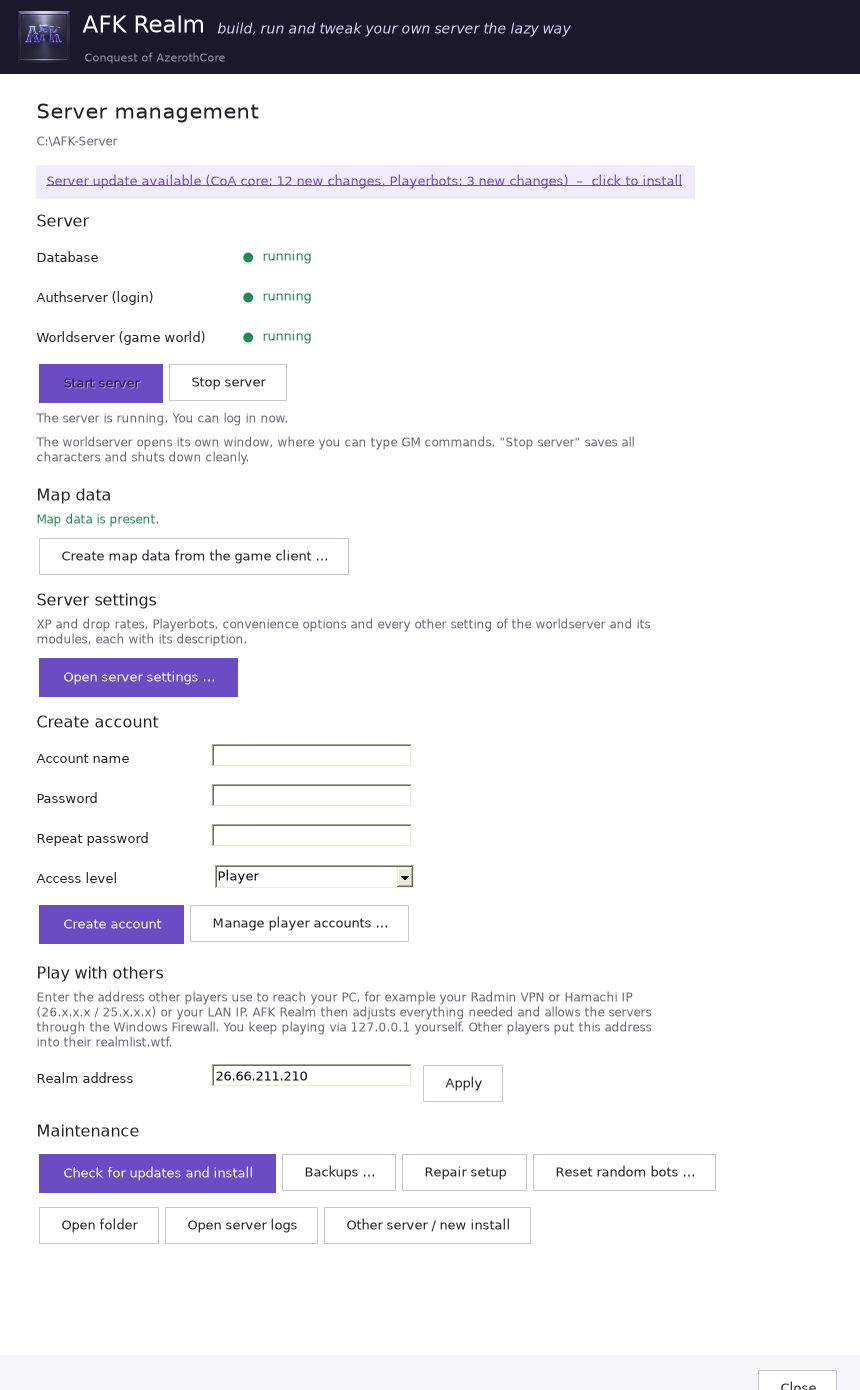
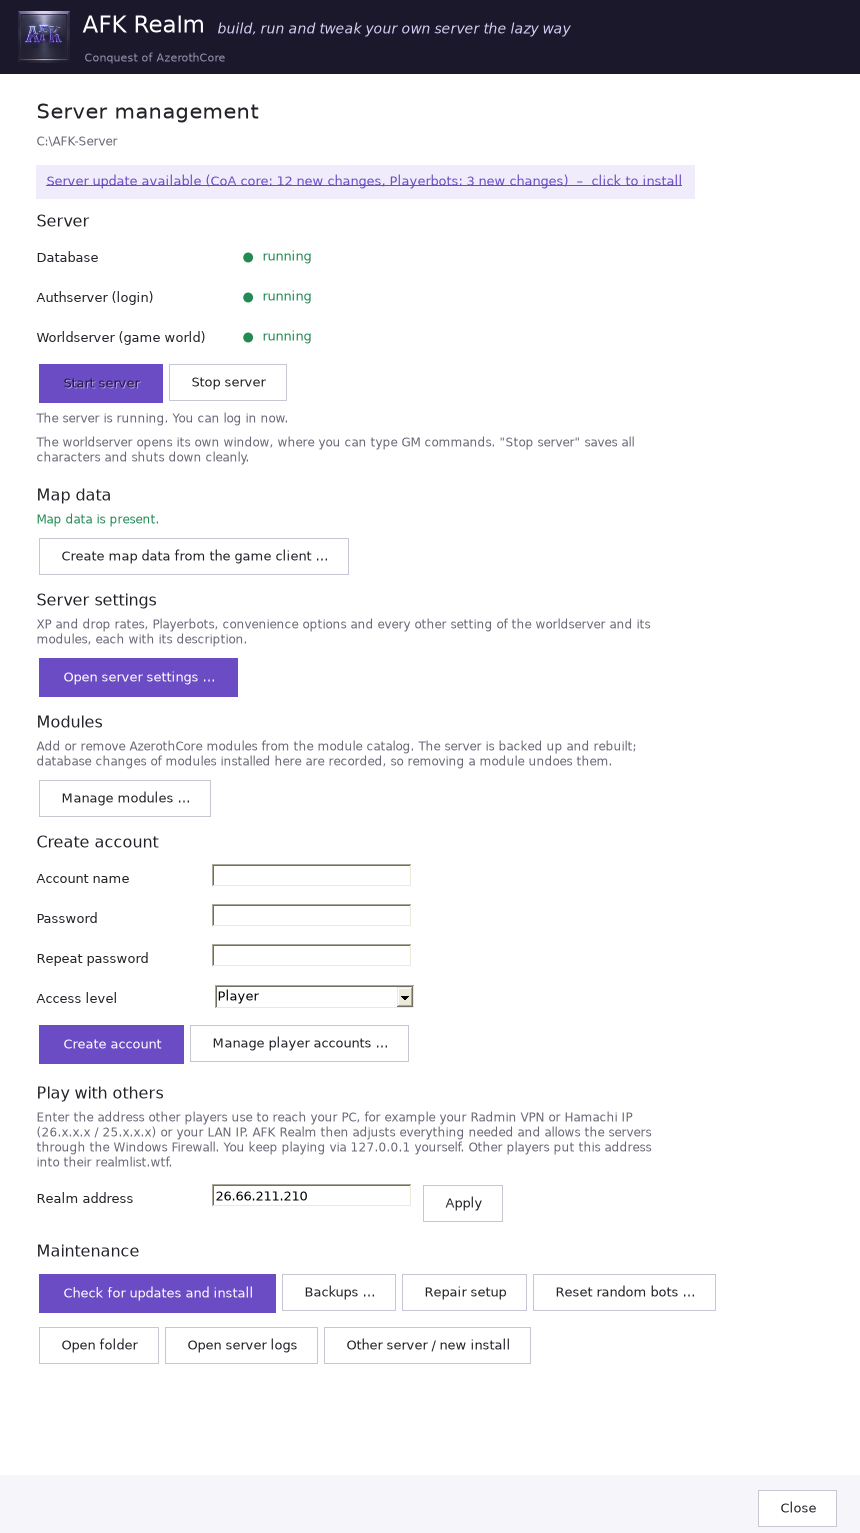
Docs and screenshots for the module manager, release notes for 0.3.0

diff --git a/README.md b/README.md
@@ -25,6 +25,7 @@ Pre-built repacks go stale quickly. Building from source keeps you on the latest
 - **Server settings**: a list of popular options (XP, drop and reputation rates, flight paths, cross-faction play, Playerbots count and levels) plus every option of the worldserver and all module configs, searchable, with the description from each template and one-click reset to the default
 - **Accounts**: create accounts with GM levels, list all player accounts (bot accounts are filtered out) with their characters, delete accounts, set new passwords and change access levels
 - **Account transfer**: export an account with all its characters, items, mail and pets to an `.afkaccount` file and import it on another server – ids are renumbered, taken names are renamed at the next login
+- **Modules**: browse the AzerothCore module catalog, tick modules to install them and untick them to remove them. Before installing, each module is checked (database changes, settings, core patches, client files, age) and its README is one click away. The server is backed up and rebuilt; if a module does not compile, it is taken out again and the server stays as it was. The database changes of every module installed this way are recorded, so removing it undoes them
 - **Bot reset**: one click deletes all random bots with their characters, guilds and arena teams (your own characters are kept); new bots are created at the next start
 - **Map data**: extracts maps, vmaps, mmaps and the CoA client DBC tables from your game client with one click
 - **Play with others**: set a VPN or LAN address (e.g. Radmin VPN); the tool configures the realm, the CoA remote-client setting and the Windows Firewall
@@ -39,6 +40,8 @@ Pre-built repacks go stale quickly. Building from source keeps you on the latest
 | ![Server settings](docs/screenshots/9-server-settings.png) | ![Player accounts](docs/screenshots/10-player-accounts.png) |
 | **Backups** | **Update with automatic backup** |
 | ![Backups](docs/screenshots/11-backups.png) | ![Update](docs/screenshots/6-update-with-backup.png) |
+| **Modules** | **Installing and removing modules** |
+| ![Modules](docs/screenshots/12-modules.png) | ![Module changes](docs/screenshots/13-module-changes.png) |
 | **Installation** | **Progress** |
 | ![Welcome](docs/screenshots/1-welcome.png) | ![Progress](docs/screenshots/5-progress.png) |
 
@@ -63,7 +66,7 @@ The window is a small WinForms app (C# 5, .NET Framework 4.x, which is already p
 ```powershell
 # interactive
 powershell -ExecutionPolicy Bypass -File engine\engine.ps1 -InstallRoot C:\CoA-Server
-# unattended (modes: Install, Update, Rebuild, Setup, Backup, Restore)
+# unattended (modes: Install, Update, Rebuild, Setup, Backup, Restore, Modules)
 $env:AC_DB_PASSWORD = '...'
 powershell -ExecutionPolicy Bypass -File engine\engine.ps1 -InstallRoot C:\CoA-Server -NonInteractive -Mode Update
 ```
@@ -78,13 +81,17 @@ Sources used:
 
 Every installation and rebuild uses the newest commits of the CoA core and Playerbots; *Update* checks for newer ones later. The exact revisions built are recorded in `Dependencies\revisions.txt` and in the install log.
 
+### Modules and their database changes
+
+Modules installed through *Manage modules* are cloned into `Dependencies\Source\modules`. Their SQL files (`data/sql/db-world`, `db-characters`, `db-auth`) are not left to the core's updater: AFK Realm applies them itself, copies the tables they name beforehand and stores the differences (added, changed and removed rows, new and deleted tables) in the database `afk_modules`, which is part of every backup. The files are then entered into the core's `updates` tables with the core's own hash, so they are never applied twice. Removing the module puts every recorded row and table back, but only rows that still look exactly as the module left them; rows changed later (for example by a server update) are kept and listed in the log. Changes that cannot be recorded (a module that alters the structure of an existing table, or changes tables in other ways) are reported; a backup from before the module restores them. Data players created through a module (items in bags, learned spells) is not tracked.
+
 Folder layout after installation:
 
 ```
 C:\CoA-Server\
   Server\         authserver, worldserver, configs, Data (map data)
   DB\             portable MySQL and its data
-  Dependencies\   tools, source code, build files
+  Dependencies\   tools, source code (modules in Source\modules), build files
   logs\           install.log, mysql-error.log
   Backups\        server backups made before updates (newest 3)
   Builder\        copy of the builder (the desktop shortcut points here)
@@ -97,6 +104,7 @@ C:\CoA-Server\
 - **Compiler runs out of memory** (errors C1076/C3859): the builder retries automatically with less parallelism; closing games and browsers helps.
 - **Worldserver closes with "DataDir does not hold the CoA client DBC set"**: open *Create map data*, choose your CoA game folder and tick *Only refresh the CoA DBC tables*. The stock map extractor cannot read CoA's own patch archives, so the tool extracts these tables with the fork's `apps/coa-dbc/client_dbc.py`.
 - **Black screen at the realm selection**: the core is too old for the client's realm cards; run *Check for updates and install*.
+- **A module does not compile**: it was taken out again automatically and the server is unchanged; the first compiler error in `logs\install.log` names the problem. Many modules are written for the regular AzerothCore and do not fit CoA.
 - **Friends cannot connect**: set the realm address under *Play with others*, restart the server, and make sure the VPN is connected on both PCs.
 
 ## Building the exe yourself

diff --git a/RELEASE_NOTES.md b/RELEASE_NOTES.md
@@ -1,16 +1,14 @@
-# AFK Realm 0.2.0 – preview
+# AFK Realm 0.3.0 – preview
 
 Build, run and tweak your own Conquest of Azeroth server (AzerothCore fork with Playerbots) on Windows 10/11.
 
-## What's new since 0.1.0
+## What's new since 0.2.0
 
-- **Backups and rollback**: before every update AFK Realm saves the server – programs, settings, all databases and the versions they were built from. If a new version causes problems, *Backups → Restore* puts everything back. Backups can also be made by hand; the newest 3 are kept.
-- **Player accounts**: a new window lists all real player accounts (bot accounts are filtered out) with their characters and last login. Accounts can be deleted, get a new password or a different access level.
-- **Account transfer**: export an account with all its characters, items, mail and pets to an `.afkaccount` file and import it on another server. All ids are renumbered; a character name that is already taken is changed at the next login.
-- **Update notice**: the server management shows when newer CoA or Playerbots code, or a newer AFK Realm release, is available.
-- **Settings**: options that share one description in the config templates now show only their own default value; 0/1 options with two different meanings (for example how deleted characters are handled) are shown as a choice instead of on/off.
-- **Wording**: no more fixed time estimates; long steps simply say they can take a while.
-- **Fix**: the build no longer stops with "Git was NOT FOUND" when Git is installed but not on the system PATH (or when AFK Realm set up its own portable Git).
+- **Module manager** (*Server management → Manage modules*): browse the AzerothCore module catalog, search it, tick modules to install them and untick them to remove them. Modules that are not in the catalog can be added by their Git address.
+- **Checked before installing**: for each module AFK Realm looks at its files and README and shows what to expect – database changes, settings, whether it needs a core patch (not supported) or files for the game client, whether it needs Eluna, and when it was last changed. The README opens right in the window.
+- **Safe to try**: the server is backed up first. If it cannot be built with a new module, the module is taken out again and the server stays exactly as it was.
+- **Removing undoes the database changes**: AFK Realm applies a module's SQL files itself and records every change. Removing the module puts the rows and tables back – except rows that were changed again later, which are kept and listed. Changes that cannot be recorded are named, and a backup restores them.
+- Restoring a backup also brings the module folders back to the state of that backup.
 
 ## What it does
 
@@ -23,9 +21,11 @@ Build, run and tweak your own Conquest of Azeroth server (AzerothCore fork with 
 - Moves accounts with their characters from one server to another via an export file
 - Checks for updates and rebuilds only when something changed
 - Backs up the server before every update and rolls it back with one click
+- Installs and removes AzerothCore modules, including their database changes
 
 ## Please note
 
 - This is a preview. Please report problems with `logs\install.log` attached.
+- Many AzerothCore modules are written for the regular core and may not compile or work with CoA. Installing one is safe to try: a module that does not compile is taken out again.
 - The exe is not code-signed, so Windows SmartScreen may warn about an unknown publisher.
 - You need your own CoA game client. The first installation may take a long time and needs about 40 GB of disk space.

diff --git a/CHANGELOG.md b/CHANGELOG.md
@@ -1,5 +1,12 @@
 # Changelog
 
+## 0.3.0-preview
+
+- Module manager: the AzerothCore module catalog with search and filters; tick to install, untick to remove; a check of each module before installing (database changes, settings, core patches, client files, Eluna, age) and its README in the window; modules by Git address
+- Module installs and removals back up the server and rebuild it; a module that does not compile is taken out again and the server stays unchanged
+- Database changes of modules are recorded (schema `afk_modules`, part of every backup) and undone when the module is removed; rows changed later are kept and reported
+- Restoring a backup also brings the module folders back to the state of the backup
+
 ## 0.2.0-preview
 
 - Automatic server backup before every update, manual backups, one-click rollback (newest 3 kept)
